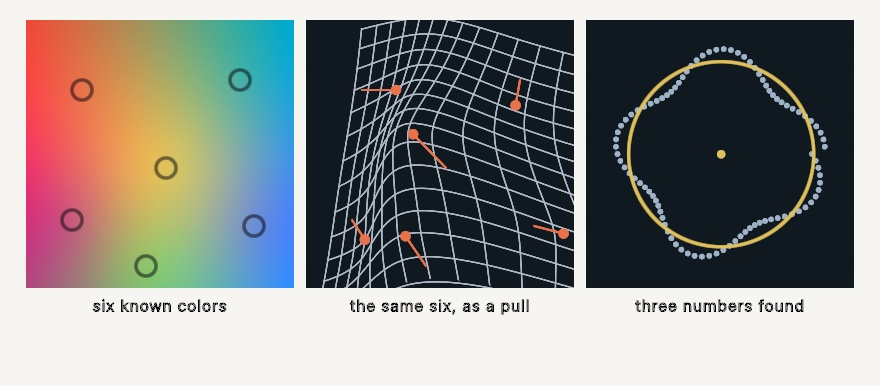
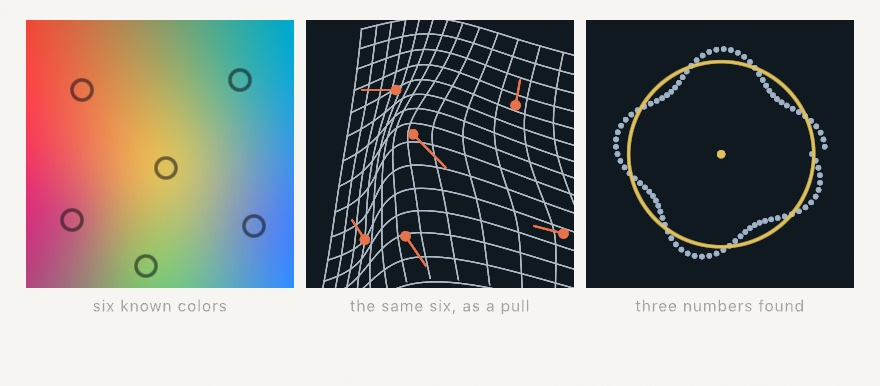
Let text take only the strokes a sketch sets
The "dark-pass text corruption" that kept three chapter figures unthemed
was never a second-pass renderer bug: a fresh instance rendered dark-first
is byte-identical to the second pass. Outline text honored the ambient
stroke, and the default drawing state is a 1px opaque black stroke, so any
drawText before a sketch touched stroke state rendered black-outlined
glyphs. Invisible as slight bolding when the ink is dark on light paper,
and glyph-eating when a dark theme flips the ink light. The apparent
draw-order dependence was two authoring leaks: a separator's stroke(faint)
bolding the next row's text, and noStroke() calls upstream healing the rest.

Text now decorates only with a stroke the sketch has set: Drawer.strokeSet,
flipped by the stroke() overloads and riding the state stack, gates
drawOutlineText and the drawShape glyph sites (SVG branch, text on a path,
per-glyph drawing). Stroke fonts keep the default pen, shapes are untouched,
and TextDefaultStrokeTests pins the rule at the vertex level. Docs, the
Words chapter, and the CAPABILITIES Text bullet carry the new wording.

With the defect gone, Fitting, LocalAverages, and ReadingAPad join the
themed set: darkTheme knobs, picture embeds in their four pages, dark
siblings rendered, light diffs confined to the text bands, and all six
images byte-stable under a forced re-render. ReadingAPad's rows also stop
inheriting the separator's stroke, so every row reads at one weight.
[…]

Changed region(s): [[0.7057, 0.7772, 0.9205, 0.8083], [0.3989, 0.7772, 0.6136, 0.8083], [0.092, 0.7772, 0.2761, 0.8083]]

diff --git a/Sources/Ollin/Core/Drawer+Text.swift b/Sources/Ollin/Core/Drawer+Text.swift
@@ -13,9 +13,12 @@ extension Drawer {
     /// `textAlign`. `\n` starts a new line; text rides the transform stack and
     /// stays crisp at any size. A **bitmap** font stamps each lit pixel as a fill
     /// color square on the SDF path; an **outline** font draws each glyph as a
-    /// vector `Shape`, so — like every other shape — it takes the current `fill`
-    /// *and* an active `stroke` (call `noStroke()` for plain filled text, or
-    /// `noFill()` for outline-only text); a **stroke** (single-line) font draws each
+    /// vector `Shape`: it takes the current `fill`, and, once the sketch has set
+    /// one, the current `stroke` (`noFill()` plus a `stroke(...)` gives
+    /// outline-only text). The initial default stroke never applies to text: a
+    /// 1px opaque band straddling every contour reads as bolding on a light
+    /// ground and eats thin light glyphs on a dark one, so glyphs decorate only
+    /// with a stroke the sketch asked for; a **stroke** (single-line) font draws each
     /// glyph as open pen paths with the current `stroke` and no fill. Unknown
     /// characters advance the pen but draw nothing.
     func drawText(_ string: String, _ x: Double, _ y: Double) {
@@ -99,6 +102,19 @@ extension Drawer {
         }
     }
 
+    /// Run `body` with the stroke the text paths honor: the active stroke once
+    /// the sketch has set one, and none under the initial default (see
+    /// `drawText`). Gates the glyph paths that decorate through `drawShape`
+    /// (the SVG branch, text on a path, per-glyph drawing); `drawOutlineText`'s
+    /// raster path checks `strokeSet` directly.
+    func withTextStroke(_ body: () -> Void) {
+        if strokeSet { body(); return }
+        let saved = strokePaint
+        strokePaint = nil
+        body()
+        strokePaint = saved
+    }
+
     /// Outline path: each glyph fills (and strokes) like any other shape. The
     /// per-glyph flatten + triangulation are cached in local space and reused, so a
     /// redrawn label only translates cached vertices — the same geometry a
@@ -106,7 +122,7 @@ extension Drawer {
     /// frame. SVG export keeps the `drawShape` path (its recorder wants `Shape`s).
     private func drawOutlineText(_ string: String, _ x: Double, _ y: Double, font: OutlineFont) {
         let hasFill = fillPaint != nil
-        let hasStroke = strokePaint != nil && strokeWidth > 0
+        let hasStroke = strokeSet && strokePaint != nil && strokeWidth > 0
         guard hasFill || hasStroke else { return }
 
         let placed = font.placedGlyphs(for: string, size: textPixelSize,
@@ -124,7 +140,7 @@ extension Drawer {
                     drawImage(picture, in: glyph.pictureRect)
                     continue
                 }
-                OutlineFont.shapes(of: [glyph]).forEach(drawShape)
+                withTextStroke { OutlineFont.shapes(of: [glyph]).forEach(drawShape) }
             }
             return
         }
@@ -617,7 +633,7 @@ extension Drawer {
                                       } else if strokesGlyphs {
                                           shapes.forEach { $0.contours.forEach { self.drawPolyline($0.points) } }
                                       } else {
-                                          shapes.forEach { self.drawShape($0) }
+                                          self.withTextStroke { shapes.forEach { self.drawShape($0) } }
                                       }
                                   })
             perGlyph(glyph)
@@ -680,7 +696,7 @@ extension Drawer {
                 if strokesGlyphs {
                     placed.contours.forEach { drawPolyline($0.points) }
                 } else {
-                    drawShape(placed)
+                    withTextStroke { drawShape(placed) }
                 }
             }
         }

diff --git a/Sources/Ollin/Core/Drawer.swift b/Sources/Ollin/Core/Drawer.swift
@@ -227,6 +227,12 @@ final class Drawer {
     private(set) var backgroundColor: Color = .black
     var fillPaint: Paint? = .color(.white)     // default: white fill
     var strokePaint: Paint? = .color(.black)   // default: black stroke
+    /// Whether the sketch has set a stroke itself (any `stroke(...)` call; rides
+    /// the state stack like the paint). Outline text decorates with the stroke
+    /// only once this is true: the initial black shape stroke never outlines
+    /// glyphs, where a 1px opaque band straddling every contour eats thin light
+    /// text on a dark ground. Shapes keep the classic default look untouched.
+    var strokeSet = false
     var strokeWidth: Double = 1         // default: 1px
     var pointDiameter: Double = 1       // default: 1px dot (see pointSize / drawPoint)
     var marker: PointMarker = .circle   // default: round dot (see pointMarker / drawPoint)
@@ -1636,6 +1642,7 @@ final class Drawer {
         var modelIsIdentity: Bool
         var fillPaint: Paint?
         var strokePaint: Paint?
+        var strokeSet: Bool
         var strokeWidth: Double
         var pointDiameter: Double
         var marker: PointMarker
@@ -1751,9 +1758,9 @@ final class Drawer {
     func fill(_ gradient: Gradient) { fillPaint = .gradient(gradient) }
     func fill(_ paint: Paint) { fillPaint = paint }
     func noFill() { fillPaint = nil }
-    func stroke(_ color: Color) { strokePaint = .color(color) }
-    func stroke(_ gradient: Gradient) { strokePaint = .gradient(gradient) }
-    func stroke(_ paint: Paint) { strokePaint = paint }
+    func stroke(_ color: Color) { strokePaint = .color(color); strokeSet = true }
+    func stroke(_ gradient: Gradient) { strokePaint = .gradient(gradient); strokeSet = true }
+    func stroke(_ paint: Paint) { strokePaint = paint; strokeSet = true }
     func noStroke() { strokePaint = nil }
     func strokeWeight(_ weight: Double) { strokeWidth = max(0, weight) }
     func pointSize(_ size: Double) { pointDiameter = max(0, size) }
@@ -3836,6 +3843,7 @@ final class Drawer {
         stateStack.append(SavedState(transform: transform, transformIsIdentity: transformIsIdentity,
                                      modelMatrix: modelMatrix, modelIsIdentity: modelIsIdentity,
                                      fillPaint: fillPaint, strokePaint: strokePaint,
+                                     strokeSet: strokeSet,
                                      strokeWidth: strokeWidth, pointDiameter: pointDiameter,
                                      marker: marker, hollowWidth: hollowWidth,
                                      strokeAlignment: strokeAlignment,
@@ -3868,6 +3876,7 @@ final class Drawer {
         modelIsIdentity = s.modelIsIdentity
         fillPaint = s.fillPaint
         strokePaint = s.strokePaint
+        strokeSet = s.strokeSet
         strokeWidth = s.strokeWidth
         pointDiameter = s.pointDiameter
         marker = s.marker

diff --git a/Tests/OllinTests/TextDefaultStrokeTests.swift b/Tests/OllinTests/TextDefaultStrokeTests.swift
@@ -1,0 +1,55 @@
+import Testing
+@testable import Ollin
+
+/// Outline text decorates with the stroke only once the sketch has set one: the
+/// initial default (the black 1px shape stroke) must never outline glyphs. A 1px
+/// opaque band straddling every contour reads as bolding on a light ground and
+/// eats thin light glyphs on a dark one, the defect that surfaced as "dimmed"
+/// dark-theme figure labels. These pin the rule at the vertex level, where the
+/// band shows up as opaque black runs beside the fill-colored ones.
+@Suite
+@MainActor
+struct TextDefaultStrokeTests {
+
+    private final class Label: Sketch {
+        var prepare: (Label) -> Void = { _ in }
+        override var canvasSize: CanvasSize { .square(256) }
+        override func draw() {
+            background(Color(hex: 0x1E1B18))
+            textFont(.systemMedium)
+            textSize(14)
+            fill(Color(hex: 0xE8E5E1, alpha: 0.62))
+            prepare(self)
+            drawText("thin glyphs", 20, 60)
+        }
+    }
+
+    /// The distinct vertex colors the frame recorded.
+    private func vertexColors(_ prepare: @escaping (Label) -> Void) -> Set<SIMD4<Float>> {
+        let sketch = Label()
+        sketch.prepare = prepare
+        _ = OllinApp.image(of: sketch, frame: 0)
+        return Set(sketch.drawer.vertices.map(\.color))
+    }
+
+    @Test func defaultStateTextCarriesNoStroke() {
+        let colors = vertexColors { _ in }
+        #expect(!colors.contains(SIMD4<Float>(0, 0, 0, 1)))
+        #expect(colors.count == 1)   // the fill alone
+    }
+
+    @Test func anExplicitStrokeStillDecorates() {
+        let red = SIMD4<Float>(1, 0, 0, 1)
+        let colors = vertexColors { $0.stroke(Color(red: 1, green: 0, blue: 0)) }
+        #expect(colors.contains(red))
+    }
+
+    /// A stroke set inside `withState` must not leak its "set" mark past the
+    /// pop: the restored default is back to never decorating text.
+    @Test func popStateRestoresTheUnsetDefault() {
+        let colors = vertexColors { sketch in
+            sketch.withState { sketch.stroke(.black) }
+        }
+        #expect(!colors.contains(SIMD4<Float>(0, 0, 0, 1)))
+    }
+}

diff --git a/Guide/Figures/28-SoundAndControl/ReadingAPad.swift b/Guide/Figures/28-SoundAndControl/ReadingAPad.swift
@@ -1,4 +1,4 @@
-// figure: frame=0
+// figure: frame=0 themed
 //
 // Guide diagram (Chapter 28): what a controller reads, in one pose. A stick
 // held up and to the right, a trigger half pulled, one face button down, with
@@ -9,11 +9,14 @@ import Ollin
 final class ReadingAPad: Sketch {
     override var canvasSize: CanvasSize { .size(880, 560) }
 
-    let ink = Color(hex: 0x2B2B2B)
-    let faint = Color(hex: 0x2B2B2B, alpha: 0.4)
-    let soft = Color(hex: 0x2B2B2B, alpha: 0.62)
-    let accent = Color(hex: 0xE4572E)
-    let idle = Color(hex: 0x2B2B2B, alpha: 0.14)
+    @Param var darkTheme = false
+
+    var paper: Color { Color(hex: darkTheme ? 0x1E1B18 : 0xF7F5F1) }
+    var ink: Color { Color(hex: darkTheme ? 0xE8E5E1 : 0x2B2B2B) }
+    var faint: Color { Color(hex: darkTheme ? 0xE8E5E1 : 0x2B2B2B, alpha: 0.4) }
+    var soft: Color { Color(hex: darkTheme ? 0xE8E5E1 : 0x2B2B2B, alpha: 0.62) }
+    var accent: Color { Color(hex: darkTheme ? 0xEF6A3E : 0xE4572E) }
+    var idle: Color { Color(hex: darkTheme ? 0xE8E5E1 : 0x2B2B2B, alpha: 0.14) }
 
     // The pose. Held up and to the right, so both axes are worth reading, and
     // the y is where the sign rule shows.
@@ -21,7 +24,7 @@ final class ReadingAPad: Sketch {
     let trigger = 0.5
 
     override func draw() {
-        background(Color(hex: 0xF7F5F1))
+        background(paper)
 
         textFont(.systemMedium)
         fill(ink)
@@ -151,6 +154,7 @@ final class ReadingAPad: Sketch {
     private func row(_ index: Int, _ call: String, _ value: String, note: String) {
         let y = Double(index) * 82
 
+        noStroke()
         fill(ink)
         textSize(14)
         textAlign(.left)

diff --git a/Guide/Figures/14-FieldsAndFlow/Fitting.swift b/Guide/Figures/14-FieldsAndFlow/Fitting.swift
@@ -1,4 +1,4 @@
-// figure: frame=0
+// figure: frame=0 themed
 //
 // Guide figure (Chapter 14): a field fitted through a few known values, the warp the same
 // fit makes when it carries vectors, and the circle a downhill walk finds in scattered marks.
@@ -7,13 +7,18 @@ import Ollin
 final class Fitting: Sketch {
     override var canvasSize: CanvasSize { .size(880, 386) }
 
+    @Param var darkTheme = false
+
+    var paper: Color { Color(hex: darkTheme ? 0x1E1B18 : 0xF7F5F1) }
+    var labelInk: Color { Color(hex: darkTheme ? 0xE8E5E1 : 0x2B2B2B, alpha: 0.62) }
+
     let anchors = [Vector2(56, 70), Vector2(214, 60), Vector2(140, 148),
                    Vector2(46, 200), Vector2(228, 206), Vector2(120, 246)]
     let inks = [Color(hex: 0xE8734A), Color(hex: 0x49B0A5), Color(hex: 0xE0C25C),
                 Color(hex: 0xC85A7C), Color(hex: 0x6E8FD4), Color(hex: 0x8FC46B)]
 
     override func draw() {
-        background(Color(hex: 0xF7F5F1))
+        background(paper)
 
         let tile = 268.0, gap = 12.0
         let left = (width - tile * 3 - gap * 2) / 2
@@ -32,7 +37,7 @@ final class Fitting: Sketch {
                     }
                 }
             }
-            fill(Color(hex: 0x2B2B2B, alpha: 0.62))
+            fill(labelInk)
             textSize(16)
             textAlign(.center, .top)
             drawText(labels[index], x + tile / 2, 20 + tile + 8)

diff --git a/Guide/Figures/16-LayersAndEffects/LocalAverages.swift b/Guide/Figures/16-LayersAndEffects/LocalAverages.swift
@@ -1,4 +1,4 @@
-// figure: frame=0
+// figure: frame=0 themed
 //
 // Guide figure (Chapter 16): one page under a light that falls across it, cut two ways.
 // The same picture, one number for the whole page against each pixel's own neighborhood.
@@ -7,8 +7,13 @@ import Ollin
 final class LocalAverages: Sketch {
     override var canvasSize: CanvasSize { .size(880, 386) }
 
+    @Param var darkTheme = false
+
+    var paper: Color { Color(hex: darkTheme ? 0x1E1B18 : 0xF7F5F1) }
+    var labelInk: Color { Color(hex: darkTheme ? 0xE8E5E1 : 0x2B2B2B, alpha: 0.62) }
+
     override func draw() {
-        background(Color(hex: 0xF7F5F1))
+        background(paper)
 
         let tile = 268.0, gap = 12.0
         let left = (width - tile * 3 - gap * 2) / 2
@@ -32,7 +37,7 @@ final class LocalAverages: Sketch {
                 drawImage(page.filtered(.adaptiveThreshold(window: 90)).image, in: frame)
             }
 
-            fill(Color(hex: 0x2B2B2B, alpha: 0.62))
+            fill(labelInk)
             textSize(16)
             textAlign(.center, .top)
             drawText(labels[index], frame.x + frame.width / 2, frame.y + frame.height + 8)

diff --git a/CAPABILITIES.md b/CAPABILITIES.md
@@ -82,7 +82,7 @@ GPU texture in place, satellites not depending on each other, and the
 
 - **GPU fluids & soft bodies** (`Sources/Ollin/Compute/ParticleFluid.swift` + `SoftBodies.swift`). Particle dynamics in a walled box over `SpatialHash`, reusing `OllinParticle`; shared header structs `OllinSPHParams` (stride 112) / `OllinSoftBody` (32) / `OllinSoftBodyParams` (64). **`ParticleFluid`** is 2D SPH (Müller 2003 symmetrized EOS pressure + Clavet 2005 near-density/near-pressure for anti-clumping and emergent surface tension; quadratic/cubic spike kernels normalized for 2D by integration): per substep, predict (gravity + one-frame `pull`/`push`) → rebuild hash over **predicted** positions (fixed 1/120 s look-ahead) → density pass → force/integrate pass, all **pure gathers** off one snapshot so pair forces cancel equal-and-opposite with no atomics. **Load-bearing:** densities are normalized to the *seeded lattice* (`restDensity` 1 = as packed, knobs survive a radius change); the box is **walls, not a torus** — kernels use plain deltas and the `r < h` test rejects the wrapped 3×3's cross-wall candidates (safe because the hash world rounds down by less than one cell); the velocity clamp (0.45·h per substep) makes tunneling impossible, so a hitch can't detonate the sim; wall under-density compression is countered by near-pressure (raising `nearStiffness`, not clamping pressure, is the intended lever). **`SoftBodies`** is meshless shape matching (Müller 2005): a serial one-thread-per-body reduce (the prefix-sum trade) fits centroid + closed-form 2D rotation, then particles steer to rotated rest offsets at `squish` (converted per substep, feel is frame-rate-independent); contacts are **cross-body only** and inelastic (overlap repulsion + each side sheds half the approach speed). **Load-bearing:** rest offsets are taken about the **rest centroid** (the lattice mean, not the disk center) — anything else leaves `Σ(goal − x) ≠ 0` and the body silently self-thrusts (a real bug: blobs hovered and pinned into corners; pinned by `FluidDynamicsTests.isolatedBodyConservesMomentum`); spawns separate via `relaxCircles` before particle fill (an overlapped spawn explodes). Both run fixed substeps against a clamped frame clock (≤ 1/30 s), pack params at buffer 11 per substep, and follow the artificial-life reproducibility rule (**no pixel snapshots**; behavioral `FluidDynamicsTests`). Facades `particleFluid(count:radius:)` / `softBodies(count:radius:)` + `updateParticleFluid` / `updateSoftBodies` / `drawParticles` overloads default `bounds` to the canvas and `seed` to `variation`. Examples `Simulation/ParticleFluid` (dam break, drag to grab) + `Simulation/SoftBodies` (jelly pile, drag to knead). `Docs/Simulation/Fluids.md`.
 
-- **Text.** Three font kinds over one `drawText` / `textToShapes` / metrics surface (`textFont` / `textSize` / `textAlign` / `textWidth`): `BitmapFont` (default Cozette, BDF + Playdate `.fnt`), `OutlineFont` (Core Text `.ttf`/`.otf`, each glyph a `Shape` taking fill *and* stroke, variable-font axes; default `.systemMedium`), `StrokeFont` (Hershey `.jhf`, plotter polylines). `textMode(.atlas)` flips outline text to an SDF glyph atlas (`GlyphAtlas`, exact EDT, fourth glyph pipeline). Per-glyph / on-path / box-wrap / metrics helpers; standard notices `drawStatus` / `drawCaption`. **Gotchas:** glyph `Shape`s must be `.nonZero` (even-odd cuts `e`/`a`/`g` terminals); San-Francisco overlapping sub-contours need a Clipper2 union clean at reference scale 1024 then RDP-simplify (`OutlineFont.simplifyClosed`) per render size, or a per-frame fps regression; warp via bounded `signedNoise`, not raw `curlNoise`; `textToShapes` returns RAW uneven Core Text vertices (`resampled(spacing:)` respaces them evenly for dot/jitter effects); bare `textFont(.builtin)` is ambiguous — use the typed form. `Docs/Drawing/Text.md`.
+- **Text.** Three font kinds over one `drawText` / `textToShapes` / metrics surface (`textFont` / `textSize` / `textAlign` / `textWidth`): `BitmapFont` (default Cozette, BDF + Playdate `.fnt`), `OutlineFont` (Core Text `.ttf`/`.otf`, each glyph a `Shape` taking fill *and* — only once the sketch has set one (`Drawer.strokeSet`) — stroke, so the initial default black stroke never outlines glyphs (it eats thin light text on a dark ground; `TextDefaultStrokeTests`); variable-font axes; default `.systemMedium`), `StrokeFont` (Hershey `.jhf`, plotter polylines). `textMode(.atlas)` flips outline text to an SDF glyph atlas (`GlyphAtlas`, exact EDT, fourth glyph pipeline). Per-glyph / on-path / box-wrap / metrics helpers; standard notices `drawStatus` / `drawCaption`. **Gotchas:** glyph `Shape`s must be `.nonZero` (even-odd cuts `e`/`a`/`g` terminals); San-Francisco overlapping sub-contours need a Clipper2 union clean at reference scale 1024 then RDP-simplify (`OutlineFont.simplifyClosed`) per render size, or a per-frame fps regression; warp via bounded `signedNoise`, not raw `curlNoise`; `textToShapes` returns RAW uneven Core Text vertices (`resampled(spacing:)` respaces them evenly for dot/jitter effects); bare `textFont(.builtin)` is ambiguous — use the typed form. `Docs/Drawing/Text.md`.
 
 - **Text in every script** (`Sources/Ollin/Text/TextClusters.swift` + `ColorGlyphs.swift` + `LineBreaks.swift`, plus the layout core in `OutlineFont`). The four places the one-glyph-per-letter assumption breaks, each fixed at the layout tier so every text path inherits it: **`TextDirection`** (`textDirection(_:)`, stack state, `ParamOption`) forces the base writing direction where the text can't say it (`.automatic` default = today's behavior, byte-identical); **cluster-aware runs** replace per-glyph runs in `glyphRun` (per-glyph `drawText`, text-on-path), so `GlyphRunItem`/`TextGlyph` carry **`text: String`** (+ `character` as the first char, `isPicture`) rather than one `Character`; **color glyphs** (emoji) rasterize through `ColorGlyphCache` and draw on the **image path** in the outline *and* atlas modes; **`LineBreaks`** replaces the space split in `wrapToWidth`. Readbacks: `OutlineFont.fontsUsed(for:)` / `missingCharacters(in:)` + the font-kind-agnostic `Sketch.textMissingCharacters(_:)`. **Load-bearing:** the cluster unit is the **grapheme**, not the string index (a Devanagari syllable's glyphs report *different* indices inside one grapheme — bucketing by index splits it into pieces that overlap on the canvas), a grapheme with **no glyph of its own joins the piece before it** (a ligature is reported at its first character in either direction; one at the very start waits for the first piece instead), and clusters sort by **`originX` with a build-order tie-break** so a right-to-left line comes out left-to-right on the canvas (`TextGlyph.index` 0 is the letter read *last*, which is what a sweep across the drawing wants); a cluster's advance is the **sum of the shaper's own advances**, never a difference of neighboring positions (an Arabic mark is stored *after* its base at a *larger* x, so the difference goes negative, clamps to 0, and the total is wrong); `glyphRun` applies **both** pen offsets (`x` and `y`) or Arabic harakat and combining marks drop onto the baseline (measured up to 0.063 em, invisible in a whole-line bounding box, so the test compares glyphs one at a time); a color glyph is told from an ordinary one **only by the absence of a path** (there is no flag), rasterizes once at **160 px = the largest `sbix` strike Apple Color Emoji carries** (read from the font's own table, so a bigger raster only upsamples), takes neither `fill` nor `stroke`, is **left out of `textToShapes`** with a `noteOnce`, and counts as a skipped image in a vector export; the SDF atlas is one channel so a picture can never ride it (its own image batch, in call order); `LineBreaks` creates its tokenizer with **no locale** (measured identical to `en_US`/`th_TH`/current across English, Japanese and Thai, so an export can't depend on the machine) and a wrapped line is trimmed of its trailing space; the paragraph-style setting holds a *pointer*, so the two forced-direction styles are built with **nested `withUnsafePointer`** (letting it escape reads freed stack memory and the direction silently does nothing). Bitmap and stroke fonts have no shaping engine and stay left-to-right by design. **No pixel snapshot** (the layout and the emoji bitmaps come from the machine's own OS and installed faces, which a reference would pin instead of Ollin's code, matching the repo's system-font-free snapshot convention) — `ComplexTextTests` (21, all eight mechanisms verified red by sabotage) + two Metal-gated render probes pin it instead. Example `Text/Scripts`; Guide Ch 8 § *Not every language works like English* + EveryScript figure; `Docs/Drawing/Text.md#scripts`.
 

diff --git a/Docs/Drawing/Text.md b/Docs/Drawing/Text.md
@@ -6,7 +6,7 @@
 
 Ollin draws text in three kinds of font, all behind the same `drawText` / `textFont` / `textSize` / `textAlign` surface:
 
-- An **outline font** is a real TrueType/OpenType (`.ttf`/`.otf`) face, each glyph stored as vector contours and drawn as a [`Shape`](../Drawing/Geometry.md#shape). One load draws crisp at *any* size, the type takes both `fill` and `stroke`, and the glyph geometry is yours to manipulate. The default font is an outline font, so text works with zero setup.
+- An **outline font** is a real TrueType/OpenType (`.ttf`/`.otf`) face, each glyph stored as vector contours and drawn as a [`Shape`](../Drawing/Geometry.md#shape). One load draws crisp at *any* size, the type takes `fill` and any `stroke` you set, and the glyph geometry is yours to manipulate. The default font is an outline font, so text works with zero setup.
 - A **bitmap font** stores each glyph as a small grid of pixels, each lit pixel stamped as one square on the same instanced-SDF path the shapes use. No rasterizer, no separate pipeline.
 - A **stroke font** is a single-line (plotter) face whose glyphs are open pen paths with *no fill*, drawn with the current `stroke`. It's the kind of letterform a pen plotter draws, and Hershey Sans comes bundled.
 
@@ -158,7 +158,7 @@ textFont(_ font: OutlineFont)
 
 An `OutlineFont` is a real TrueType/OpenType (`.ttf`/`.otf`) face. Unlike a bitmap font it stores each glyph as **vector contours**, so one load draws crisp at *any* `textSize` and you never reload per size. Set it with the same `textFont`, and `drawText`, `textSize`, `textAlign`, and `textWidth` all work exactly as before.
 
-Because an outline glyph is rendered as a [`Shape`](../Drawing/Geometry.md#shape), the same vector fill the triangulator draws, outline text takes the current `fill` **and** an active `stroke`, and composites in draw order with everything else. Filled, outlined, and stroke-only text all fall out of that:
+Because an outline glyph is rendered as a [`Shape`](../Drawing/Geometry.md#shape), the same vector fill the triangulator draws, outline text takes the current `fill` and composites in draw order with everything else. Once you've set a `stroke`, text takes that too. Filled, outlined, and stroke-only text all fall out of that:
 
 ```swift
 let display = OutlineFont(name: "Avenir Next") ?? .system
@@ -174,7 +174,7 @@ drawText("outline", width / 2, 480)
 ```
 
 > [!NOTE]
-> Outline text honors `stroke` like every other shape, so the default 1px stroke will outline your glyphs. Call `noStroke()` for plain filled text.
+> Text honors a stroke you have *set*, so a leftover `stroke(...)` from earlier drawing will outline your glyphs; call `noStroke()` when that isn't the look you want. The one stroke that never applies to text is the initial default, the 1px black every fresh sketch starts with. A band straddling every contour would bold text on a light ground and eat thin light glyphs on a dark one, so glyphs only decorate with a stroke the sketch asked for.
 
 **Loading a font, from anywhere:**
 

diff --git a/Guide/08-Words.md b/Guide/08-Words.md
@@ -29,7 +29,7 @@ final class Hello: Sketch {
 }
 ```
 
-`drawText` puts a string at a point, and three pieces of state decide how it lands: `fill` is the ink (text is geometry, so it uses the same fill as your shapes), `textSize` is the height of a line in points, and `textAlign` says how the string hangs on the point you gave. `.center, .middle` centers it both ways, and the default is `.left, .baseline`, which starts the text at your x and sits it on the line type sits on. One thing to know early is that glyphs honor `stroke` too, so a leftover 1-pixel stroke will outline every letter. Call `noStroke()` for plain text, or keep the stroke on purpose (it's a look).
+`drawText` puts a string at a point, and three pieces of state decide how it lands: `fill` is the ink (text is geometry, so it uses the same fill as your shapes), `textSize` is the height of a line in points, and `textAlign` says how the string hangs on the point you gave. `.center, .middle` centers it both ways, and the default is `.left, .baseline`, which starts the text at your x and sits it on the line type sits on. One thing to know early is that glyphs honor a stroke you've set, so a leftover `stroke(...)` from earlier drawing will outline every letter. Call `noStroke()` for plain text, or keep the stroke on purpose (it's a look). The untouched default stroke is the one exception: it never applies to text, so a fresh sketch's first `drawText` comes out plain.
 
 A string can hold more than one line (`\n` starts the next one), and everything rides the transform stack from [Chapter 6](06-GridsAndRepetition.md), so you can translate to a point, rotate, and the words rotate with the paper.
 

diff --git a/Guide/14-FieldsAndFlow.md b/Guide/14-FieldsAndFlow.md
@@ -137,7 +137,10 @@ let field = RadialBasis(points: anchors, values: inks)!
 fill(field.value(at: Vector2(x, y)))
 ```
 
-<img src="Images/14-FieldsAndFlow/Fitting.jpg" alt="Three panels. A soft field of orange, pink, blue, green and yellow filling a square with six small dark rings marking the points it was fitted through; a white grid on black bent into curves by six orange arrows pulling on it; and a ring of pale dots wobbling around a circle, with a gold circle drawn through the middle of them and a gold dot at its center" width="680">
+<picture>
+  <source media="(prefers-color-scheme: dark)" srcset="Images/14-FieldsAndFlow/Fitting-dark.jpg">
+  <img src="Images/14-FieldsAndFlow/Fitting.jpg" alt="Three panels. A soft field of orange, pink, blue, green and yellow filling a square with six small dark rings marking the points it was fitted through; a white grid on black bent into curves by six orange arrows pulling on it; and a ring of pale dots wobbling around a circle, with a gold circle drawn through the middle of them and a gold dot at its center" width="680">
+</picture>
 
 The left panel is six colors at six places, read back at every pixel. It looks like a gradient and it is not one. Nothing was blended between two stops; every pixel is a weighted sum of all six. Look at the rings marking the points: what shows inside each one is the field's own color there, and it matches the color that point was given. **A field that passes through its data is interpolating. One that merely heads in the right direction is blurring.**
 

diff --git a/Guide/16-LayersAndEffects.md b/Guide/16-LayersAndEffects.md
@@ -310,7 +310,10 @@ It is the plainest blur there is, just the average of the square around each pix
 
 The second one is the interesting one.
 
-<img src="Images/16-LayersAndEffects/LocalAverages.jpg" alt="Three panels. A page of dark bars and dots on pale paper with a light falling across it, bright at the top left and deep in shadow at the bottom right; the same page cut to black and white by one threshold, which swallows the whole shadowed half into solid black; and the same page cut against each pixel's own neighborhood, where every bar and dot survives on clean white paper" width="680">
+<picture>
+  <source media="(prefers-color-scheme: dark)" srcset="Images/16-LayersAndEffects/LocalAverages-dark.jpg">
+  <img src="Images/16-LayersAndEffects/LocalAverages.jpg" alt="Three panels. A page of dark bars and dots on pale paper with a light falling across it, bright at the top left and deep in shadow at the bottom right; the same page cut to black and white by one threshold, which swallows the whole shadowed half into solid black; and the same page cut against each pixel's own neighborhood, where every bar and dot survives on clean white paper" width="680">
+</picture>
 
 The left panel is a page with a light falling across it. Try to cut it to black and white with `threshold` and you have to pick one number, and there is no number that works. Pick one that keeps the shadowed corner and you flood the lit one. Pick one that keeps the lit corner and the shadow goes solid black, which is the middle panel.
 

diff --git a/Guide/28-SoundAndControl.md b/Guide/28-SoundAndControl.md
@@ -255,7 +255,10 @@ override func draw() {
 
 `controller` is player one, read fresh each frame the way you read `mouseX`. No setup call, no `start()`, no permission.
 
-<img src="Images/28-SoundAndControl/ReadingAPad.jpg" alt="A schematic game controller with the left stick held up and to the right, the right trigger half pulled, and the bottom face button lit, beside a list of five reads and the value each returns for that pose" width="820">
+<picture>
+  <source media="(prefers-color-scheme: dark)" srcset="Images/28-SoundAndControl/ReadingAPad-dark.jpg">
+  <img src="Images/28-SoundAndControl/ReadingAPad.jpg" alt="A schematic game controller with the left stick held up and to the right, the right trigger half pulled, and the bottom face button lit, beside a list of five reads and the value each returns for that pose" width="820">
+</picture>
 
 Three kinds of question, three shapes of answer, and the split is the same one this chapter has been making all along. A stick is a **level**, a number you read every frame like a fader. A button press is a **moment**. `wasPressed` is true on the one frame it went down, and false while you keep holding. A sketch drops one thing per press without counting anything itself. A controller arriving or leaving is both, so `isConnected` is the state and `didConnect` is the moment.
 
